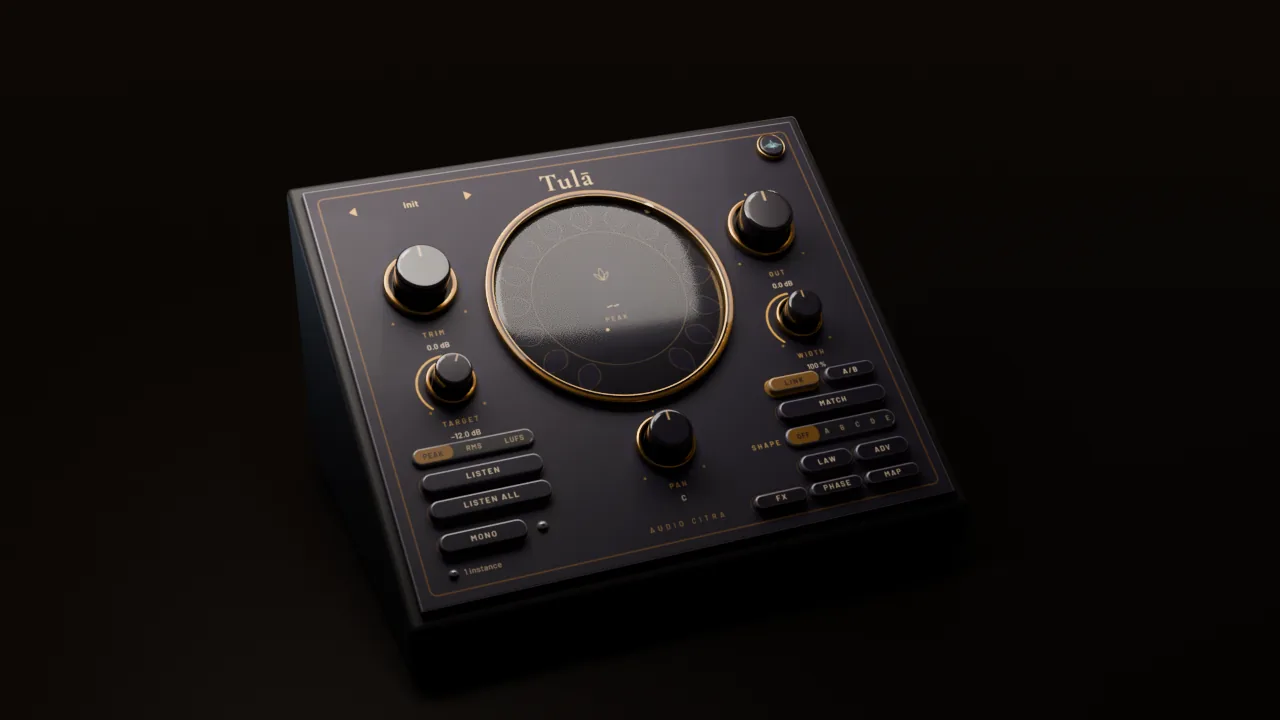
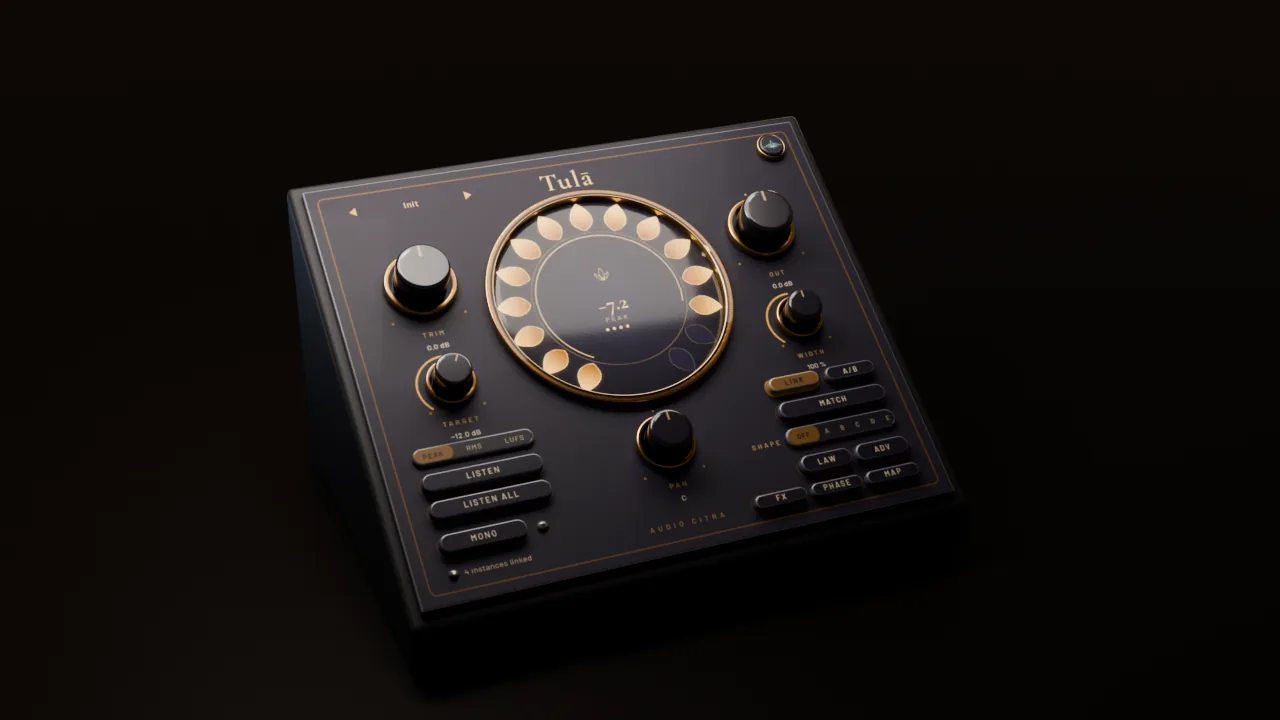
Tulā hero: the lotus lit (a drum loop playing in the capture) and glowing behind its glass
The capture is tula_face_render --manual (four linked Tulās playing), so the petals show a level instead of the idle dark
lotus; the display under the glass gets its own glow (LOTUS_GLOW).

Changed region(s): [[0.375, 0.275, 0.5625, 0.55], [0.4688, 0.3972, 0.5, 0.4583], [0.375, 0.7639, 0.4062, 0.7944]]

diff --git a/tools/tula_desk.py b/tools/tula_desk.py
@@ -6,7 +6,8 @@ lights). Replaces the old hero, a render of the site's GLB unit (tula_glb.py) in
     CAP=<capture> [CYCLES_DEVICE=GPU] blender -b -noaudio -t 4 -P tula_desk.py -- <out.png> <samples> <res_x> <res_y>
 
 The capture: tula_face_render <dir> (AudioCitraFree, headless), face_citra.png at 2x (1072 x 920 for the 536 x 460 editor), with
-updateAutoCheck answered in the test data folder so no update strip shows, and the resize grip in the corner painted out.
+updateAutoCheck answered in the test data folder so no update strip shows (--manual: the same face with a drum loop playing
+through four linked Tulās, so the lotus is lit; skins-citra.png, 958 x 822), and the resize grip in the corner painted out.
 Positions come from skins/citra/layout.json (380 x 326 layout px, scaled to the editor). Env: LAYOUT = that layout.json;
 KIT = a folder holding noir_plate_kit.py (default Agni's tools/skins); ROOM = the studio image the glossy parts mirror."""
 import bpy, bmesh, json, math, os, sys
@@ -125,6 +126,8 @@ for _n in list(_g.nodes): _g.nodes.remove(_n)
 _tr = _g.nodes.new("ShaderNodeBsdfTransparent"); _gl = _g.nodes.new("ShaderNodeBsdfGlossy"); _gl.inputs["Roughness"].default_value = 0.12
 _fr = _g.nodes.new("ShaderNodeFresnel"); _fr.inputs["IOR"].default_value = 1.5; _mx = _g.nodes.new("ShaderNodeMixShader"); _go = _g.nodes.new("ShaderNodeOutputMaterial")
 _g.links.new(_fr.outputs[0], _mx.inputs[0]); _g.links.new(_tr.outputs[0], _mx.inputs[1]); _g.links.new(_gl.outputs[0], _mx.inputs[2]); _g.links.new(_mx.outputs[0], _go.inputs["Surface"])
+bpy.ops.mesh.primitive_circle_add(vertices=256, radius=117.5 / 100, fill_type="NGON", location=(*P(*hc), 0.0005))   # the display glows behind the glass
+disp = bpy.context.object; disp.data.materials.append(print_mat("display", (0, 0, 0), rough=0.6, coat=0.0, emit=float(os.environ.get("LOTUS_GLOW", "0.9")))); upd(disp)
 bpy.ops.mesh.primitive_uv_sphere_add(segments=128, ring_count=64, radius=117.5 / 100, location=(*P(*hc), 0))
 gd = bpy.context.object; gd.scale.z = 3.0 * MMU / 1.175; smooth(gd, 80); gd.data.materials.append(M_GLASS); gd.visible_shadow = False
 
